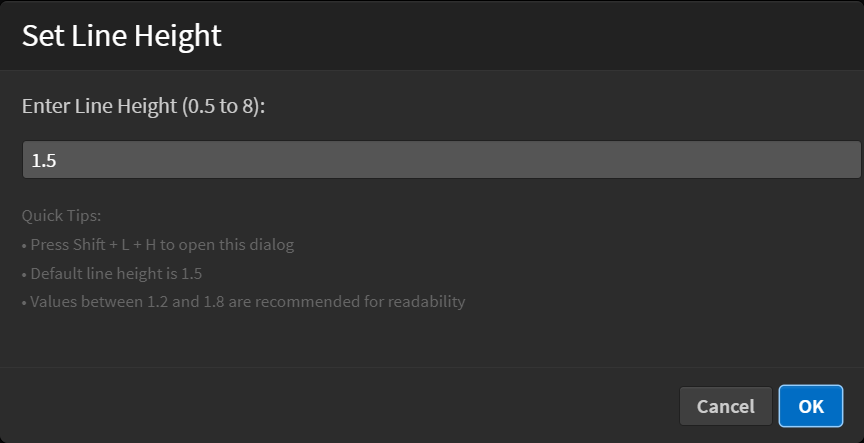
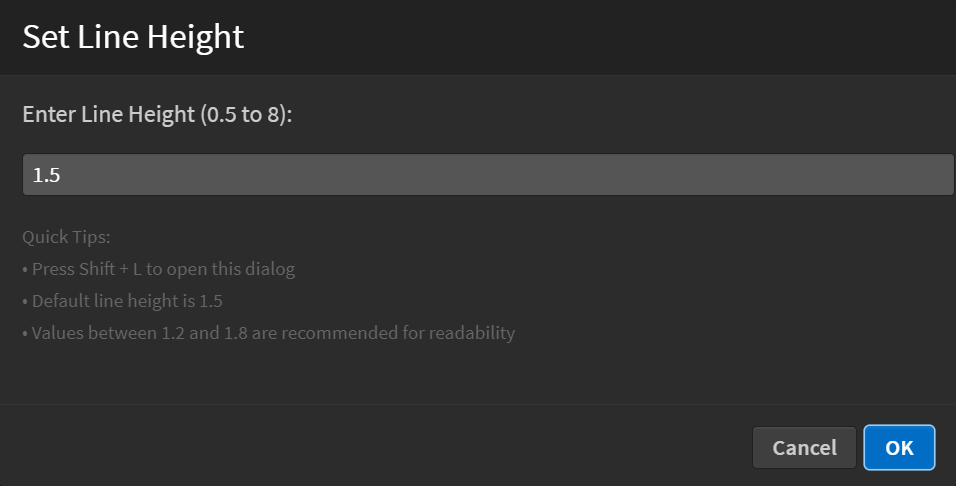
fix: line height keyboard shortcut not working issue

diff --git a/main.js b/main.js
@@ -49,7 +49,7 @@ define(function (require, exports, module) {
             </div>
             <div style="font-size: 12px; color: #666;">
                 Quick Tips:<br>
-                • Press Shift + L + H to open this dialog<br>
+                • Press Shift + L to open this dialog<br>
                 • Default line height is 1.5<br>
                 • Values between 1.2 and 1.8 are recommended for readability
             </div>`,
@@ -103,10 +103,10 @@ define(function (require, exports, module) {
 
     // Put it in the View menu since it's display-related
     const menu = Menus.getMenu(Menus.AppMenuBar.VIEW_MENU);
-    menu.addMenuItem(MY_COMMAND_ID);
+    menu.addMenuItem(MY_COMMAND_ID, "Shift-L");
     
-    // Quick keyboard shortcut to save some clicks
-    KeyBindingManager.addBinding(MY_COMMAND_ID, {key: "Shift-L-H"});
+    // Add keyboard shortcut
+    KeyBindingManager.addBinding(MY_COMMAND_ID, "Shift-L");
 
     // Get everything ready when Phoenix Code starts
     AppInit.appReady(function () {
